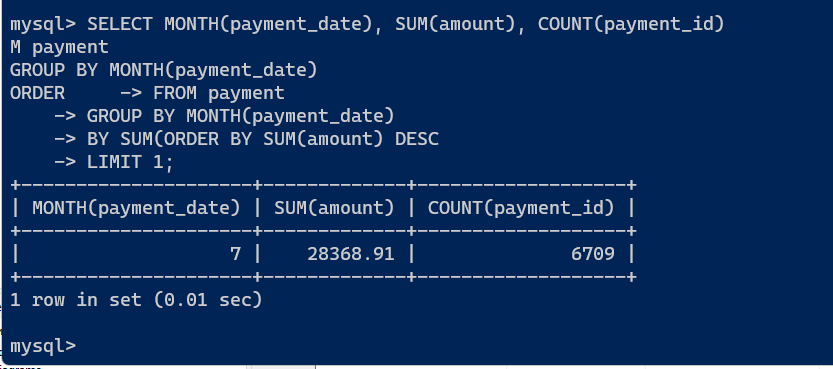
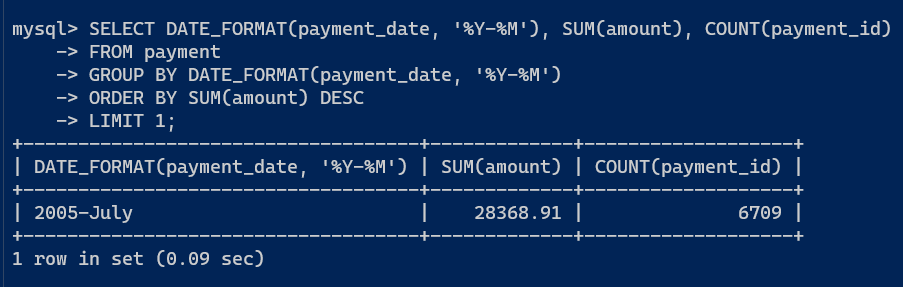
небольшая коррекция

Changed region(s): [[0.0, 0.0, 1.0, 1.0], [0.8115, 0.6969, 0.9052, 0.7805], [0.5306, 0.223, 0.6242, 0.2787]]

diff --git a/README.md b/README.md
@@ -54,16 +54,16 @@ WHERE film_list.length > (SELECT AVG(length) FROM film_list);
 
 `Получите информацию, за какой месяц была получена наибольшая сумма платежей, и добавьте информацию по количеству аренд за этот месяц.`
 
-1. `Выделяем оператором MONTH из datatime месяц`
+1. `Оператором date_format из колонки payment_date таблицы payment выделяем данные в формате %Y-%M`
 2. `Суммируем оплаты `
 3. `Добавляем счётчик строк аренды`
-4. `Группируем по месячной оплате`
+4. `Группируем по формату %Y-%M`
 5. `Ограничиваем вывод сортировки по сумме до 1 в порядке по убыванию суммы платежей`
 
 ```
-SELECT MONTH(payment_date), SUM(amount), COUNT(payment_id)
+SELECT DATE_FORMAT(payment_date, '%Y-%M'), SUM(amount), COUNT(payment_id)
 FROM payment
-GROUP BY MONTH(payment_date)
+GROUP BY DATE_FORMAT(payment_date, '%Y-%M')
 ORDER BY SUM(amount) DESC
 LIMIT 1;
 
